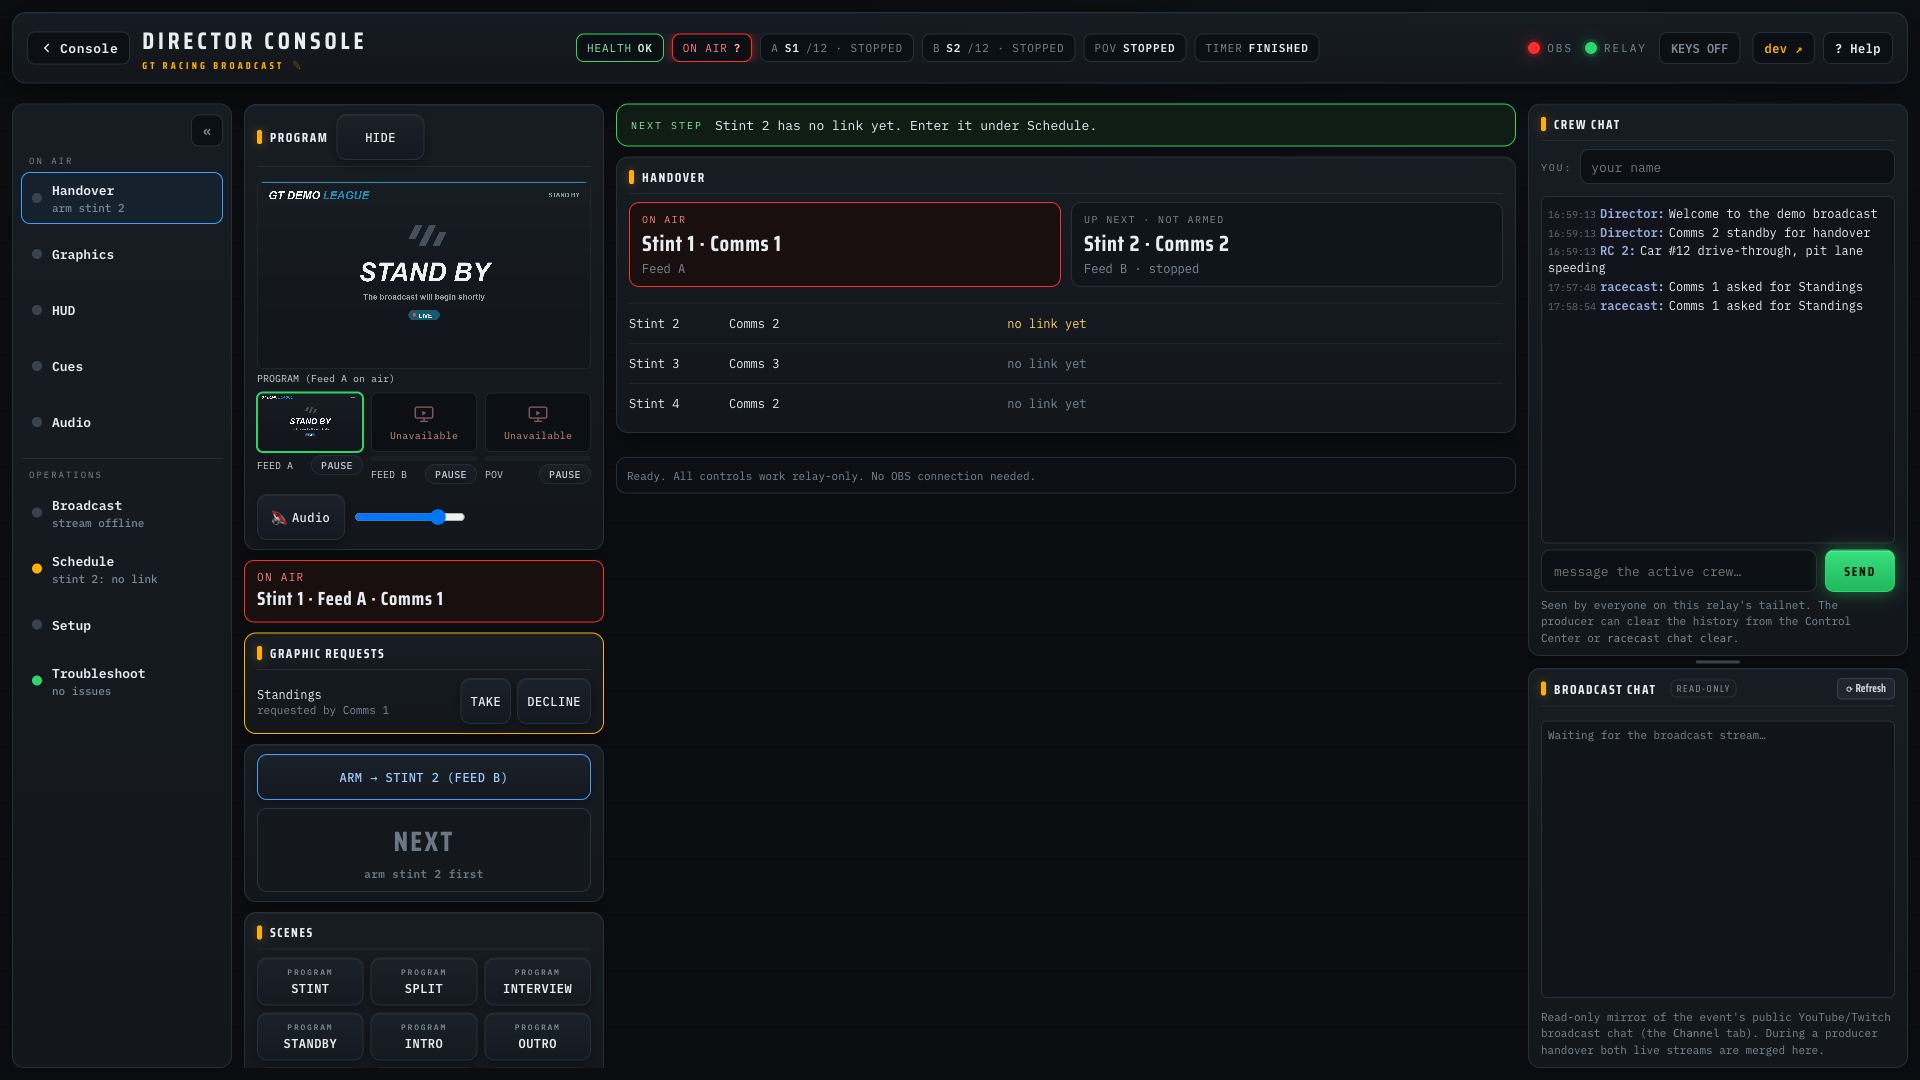
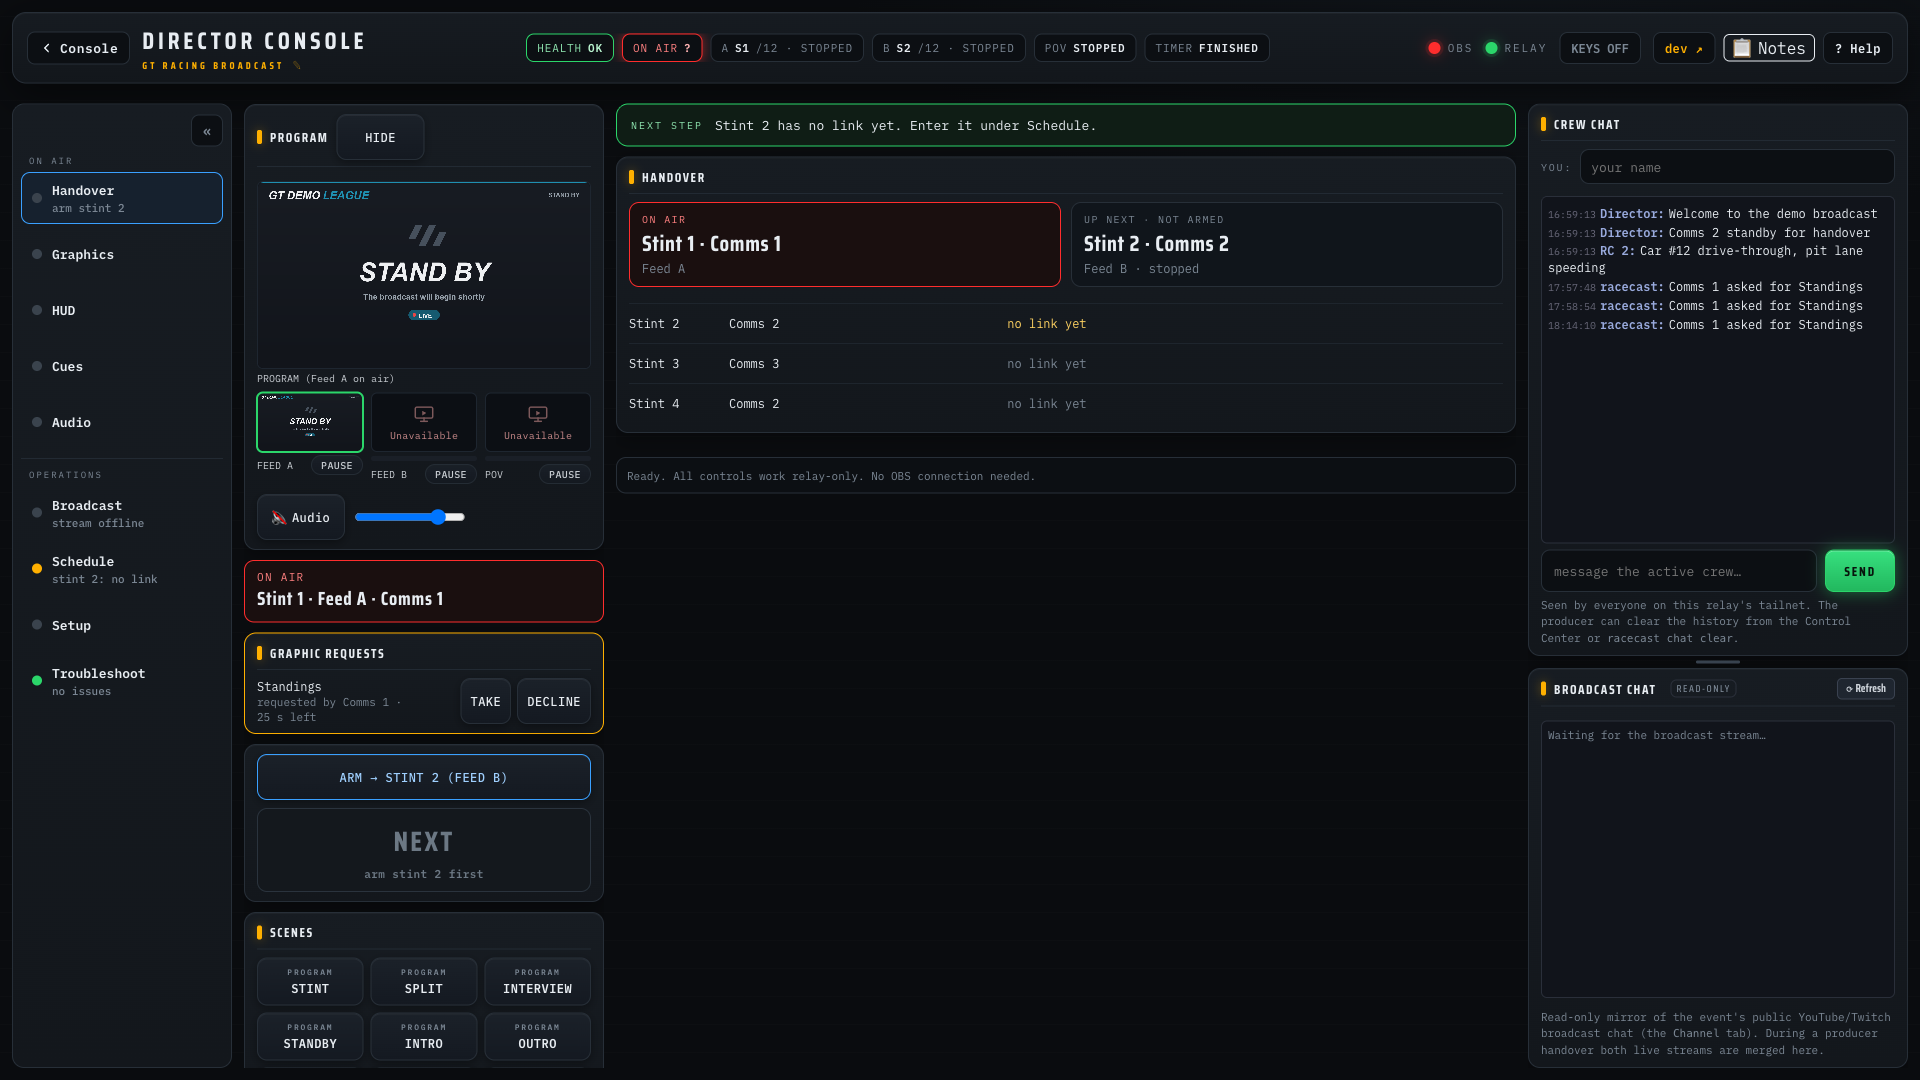
fix(graphics): director toggles end the crew's hide right; show time left on requests (#747)

diff --git a/src/director/director-panel.html b/src/director/director-panel.html
@@ -530,6 +530,7 @@
   #gfxReqList li{display:grid;grid-template-columns:minmax(0,1fr) auto auto;gap:6px;align-items:center}
   #gfxReqList .rq{font-size:12px;color:var(--ink);overflow-wrap:anywhere}
   #gfxReqList .rq small{display:block;font-size:11px;color:var(--muted)}
+  #gfxReqList .rq .left{white-space:nowrap}
   #gfxReqList button.k{min-width:0}
   .takemode{display:flex;align-items:center;gap:8px}
   .takemode>span{font-size:11px;color:var(--muted);min-width:92px}
@@ -1360,7 +1361,11 @@ function renderRequests(list){
     const li = document.createElement("li");
     const txt = document.createElement("div"); txt.className = "rq";
     txt.textContent = r.source;
-    const by = document.createElement("small"); by.textContent = "requested by " + r.by.join(", ");
+    const by = document.createElement("small");
+    by.textContent = `requested by ${r.by.join(", ")} · `;
+    const left = document.createElement("span"); left.className = "left";
+    left.textContent = `${r.left_s} s left`;
+    by.appendChild(left);
     txt.appendChild(by);
     const key = (label, action)=>{
       const b = document.createElement("button"); b.className = "k"; b.type = "button";

diff --git a/src/relay/racecast-feeds.py b/src/relay/racecast-feeds.py
@@ -11072,10 +11072,13 @@ def make_handler(relay, panel_path=None, hud_source=None, hud_path=None, assets_
                         _takes_read_state))
                 if p == ["obs", "graphics", "requests"]:
                     # The panel's request queue and modes, without an OBS read.
+                    now = time.time()
                     return self._send({
                         "modes": _take_modes.snapshot(), "league_mode": _take_modes.league,
-                        "requests": [{k: r[k] for k in ("id", "source", "by", "at")}
-                                     for r in _graphic_requests.pending(time.time())]})
+                        "requests": [{"id": r["id"], "source": r["source"], "by": r["by"],
+                                      "left_s": max(0, round(graphic_takes.REQUEST_TTL_S
+                                                             - (now - r["at"])))}
+                                     for r in _graphic_requests.pending(now)]})
                 if p[:2] == ["obs", "flag"]:
                     # Flag-status GRAPHIC toggle (parallel to the flag-text chip).
                     # GET so Companion's Generic-HTTP module hits it directly; the
@@ -11100,6 +11103,7 @@ def make_handler(relay, panel_path=None, hud_source=None, hud_path=None, assets_
                     payload, status = apply_stint_state(relay, relay._obs, p[2])
                     return self._send(payload, status)
                 if len(p) == 4 and p[:2] == ["obs", "graphic"]:
+                    _crew_takes.forget(unquote(p[3]))
                     payload, status = apply_graphic(relay, relay._obs, p[2], unquote(p[3]))
                     return self._send(payload, status)
                 if p[:1] == ["chat"]:
@@ -11730,6 +11734,7 @@ def make_handler(relay, panel_path=None, hud_source=None, hud_path=None, assets_
                 if p == ["obs", "source"]:
                     if _obs_ws is None:
                         return self._send({"error": "obs unavailable"}, 503)
+                    _crew_takes.forget(body.get("source"))
                     ok, note = relay._obs.set_scene_item_enabled(
                         body.get("scene"), body.get("source"), bool(body.get("on")))
                     return self._send({"ok": True} if ok

diff --git a/tests/test_console_gate.py b/tests/test_console_gate.py
@@ -1,7 +1,7 @@
 #!/usr/bin/env python3
 """Live-server integration checks for the /console auth gate (#216 phase 3a).
 Run: python3 tests/test_console_gate.py"""
-import importlib.util, os, tempfile, threading, json, time, types
+import importlib.util, os, tempfile, threading, json, types
 import urllib.request, urllib.error
 
 HERE = os.path.dirname(os.path.abspath(__file__))
@@ -1614,8 +1614,7 @@ def t_crew_hides_its_own_take_in_request_mode():
         rid = json.loads(_ask(p, "alice", "Standings")[1])["id"]
         _answer(p, rid, "take")
         m._obs_ws.visible.add("Standings")
-        time.sleep(2.1)   # one take per person per 2 s
-        return _take(p, "alice", "Standings", on=False)
+        return _take(p, "dave", "Standings", on=False)
     t = _take_call(fire, mode="request")
     assert t.res[0] == 200, t.res
     assert t.calls[-1] == ("item", "Stint", "Standings", False), t.calls
@@ -1650,6 +1649,26 @@ def t_mode_override_rejects_unknown_values():
                 _post(p, "/obs/graphics/mode", body={"role": "commentator", "mode": "x"}))
     t = _take_call(fire, mode="off")
     assert [r[0] for r in t.res] == [400, 400], t.res
+
+
+def t_a_director_toggle_ends_the_crews_hide_right():
+    def fire(p):
+        rid = json.loads(_ask(p, "alice", "Standings")[1])["id"]
+        _answer(p, rid, "take")
+        _post(p, "/obs/source", body={"scene": "Stint", "source": "Standings", "on": True})
+        m._obs_ws.visible.add("Standings")
+        return _take(p, "dave", "Standings", on=False)
+    t = _take_call(fire, mode="request")
+    assert t.res[0] == 403, t.res
+
+
+def t_request_queue_reports_the_time_left():
+    def fire(p):
+        _ask(p, "alice", "Standings")
+        return _queue(p)
+    t = _take_call(fire, mode="request")
+    left = t.res["requests"][0]["left_s"]
+    assert 55 <= left <= 60, left
 
 
 def t_request_routes_are_director_only_under_console():

diff --git a/src/scripts/graphic_takes.py b/src/scripts/graphic_takes.py
@@ -173,6 +173,13 @@ class CrewTakes:
         with self.lock:
             return self.current, dict(self.by)
 
+    def forget(self, source):
+        """The director toggled *source*: it is no longer a crew graphic."""
+        with self.lock:
+            if self.current == source:
+                self.current = None
+            self.by.pop(source, None)
+
 
 def chat_line(name, source, on):
     return f"{name} put {source} on air" if on else f"{name} took {source} off air"
@@ -256,11 +263,13 @@ class Requests:
             return self._copy(item) if item else None
 
     def resolve(self, rid, state, now):
-        """Mark a pending request taken or declined; None when it is not pending."""
+        """Mark a pending request taken or declined; None when it is not pending.
+        A take may also close a request that expired while OBS applied it."""
         with self.lock:
             self._prune(now)
             for item in self.items:
-                if item["id"] == rid and item["state"] == "pending":
+                if item["id"] == rid and (item["state"] == "pending" or
+                                          (state == "taken" and item["state"] == "expired")):
                     item.update(state=state, done_at=now)
                     return self._copy(item)
             return None

diff --git a/tests/test_graphic_takes.py b/tests/test_graphic_takes.py
@@ -327,6 +327,26 @@ def t_resolving_a_request_reports_back_to_every_requester():
     assert q.resolve(req["id"], "taken", now=104) is None, "a request resolves once"
 
 
+def t_a_take_that_outlives_the_deadline_still_counts():
+    q = gt.Requests()
+    req, _ = q.add("Standings", "alice", "Alice", now=100)
+    assert q.get(req["id"], now=159) is not None
+    q.pending(now=161)                     # another poll expires it during the take
+    assert q.resolve(req["id"], "taken", now=161) is not None
+    assert q.states_for("alice", now=162) == {"Standings": "taken"}
+    assert q.resolve(req["id"], "declined", now=162) is None
+
+
+def t_crew_takes_forget_a_graphic_the_director_toggles():
+    defs = gt.definitions(solo=False)
+    st = gt.CrewTakes()
+    st.apply(_entry(defs, "Standings"), True, "Comms 1", defs, {}, _ok)
+    st.forget("Schedule")
+    assert st.snapshot() == ("Standings", {"Standings": "Comms 1"})
+    st.forget("Standings")
+    assert st.snapshot() == (None, {}), "the director's toggle makes it the director's graphic"
+
+
 def t_dropping_requests_clears_the_queue():
     q = gt.Requests()
     q.add("Standings", "alice", "Alice", now=100)

diff --git a/src/relay/CLAUDE.md b/src/relay/CLAUDE.md
@@ -326,7 +326,7 @@ form in the two HTML files. Tests: `tests/test_submissions.py`.
 
 **Health Monitor.** The relay serves `/health-monitor` (tailnet/loopback) and `/console/health-monitor` (Funnel, any authenticated `/console` subject): a dashboard of relay health over time backed by a per-profile SQLite store at `runtime/<profile>/health-history.db`, sampled in the relay heartbeat; uPlot (MIT) is vendored at `src/assets/vendor/uplot/` (the first deliberately vendored JS in the repo, see the spec). CLI: `racecast health export|import|pull`.
 
-**Crew graphic takes (#743/#744/#747).** `GRAPHICS_TAKE` in `profile.env` (`off` default, `request`, `direct`; injected as `RACECAST_GRAPHICS_TAKE`) lets commentators and Race Control put broadcast stills on air. `src/scripts/graphic_takes.py` is the pure part: the takeable list derives from `obs_ws.GRAPHIC_SOURCES` minus Standby Cover (the panel's RED FLAG) and the grid rows, plus Post Race Interviews and the flags (Race Control only, applied through `flag_graphic_store`). `GET`/`POST /cockpit/graphic-takes` live under `/cockpit/` on purpose: every `/obs/*` route is director-only in `console_policy`, and `/cockpit/*` resolves the caller from the token at the tailnet root and under `/console` alike. The handler checks role and mode, refuses a take while none of the graphic's scenes is the program scene (409), keeps one crew editorial graphic (a new take hides only the previous crew take, never a director's), rate-limits one take per person per 2 s and posts a `racecast` line to the crew chat. `GET /obs/graphics` is the same list for the panel, plus the panel's graphic buses (`graphic_takes.panel_catalog`). The mode is per role: `TakeModes` holds the league value and the director's override from `POST /obs/graphics/mode`, in memory so a relay start resets it, and any change drops the open requests. In request mode `POST /cockpit/graphic-takes/request` queues a request in `Requests` (merged per graphic, 60 s, outcome readable by the requester for another 60 s); the panel polls `GET /obs/graphics/requests` (no OBS read) and answers with `POST /obs/graphics/request/<id>`, whose take runs the crew rules in the requesters' name and leaves the request open on a 409. Race Control flags stay direct, and the crew may hide the crew's own take without a request. Spec: `docs/superpowers/specs/2026-10-04-crew-pages-mobile-graphic-takes-design.md`. Tests: `tests/test_graphic_takes.py`, `tests/test_console_gate.py`.
+**Crew graphic takes (#743/#744/#747).** `GRAPHICS_TAKE` in `profile.env` (`off` default, `request`, `direct`; injected as `RACECAST_GRAPHICS_TAKE`) lets commentators and Race Control put broadcast stills on air. `src/scripts/graphic_takes.py` is the pure part: the takeable list derives from `obs_ws.GRAPHIC_SOURCES` minus Standby Cover (the panel's RED FLAG) and the grid rows, plus Post Race Interviews and the flags (Race Control only, applied through `flag_graphic_store`). `GET`/`POST /cockpit/graphic-takes` live under `/cockpit/` on purpose: every `/obs/*` route is director-only in `console_policy`, and `/cockpit/*` resolves the caller from the token at the tailnet root and under `/console` alike. The handler checks role and mode, refuses a take while none of the graphic's scenes is the program scene (409), keeps one crew editorial graphic (a new take hides only the previous crew take, never a director's), rate-limits one take per person per 2 s and posts a `racecast` line to the crew chat. `GET /obs/graphics` is the same list for the panel, plus the panel's graphic buses (`graphic_takes.panel_catalog`). The mode is per role: `TakeModes` holds the league value and the director's override from `POST /obs/graphics/mode`, in memory so a relay start resets it, and any change drops the open requests. In request mode `POST /cockpit/graphic-takes/request` queues a request in `Requests` (merged per graphic, 60 s, outcome readable by the requester for another 60 s); the panel polls `GET /obs/graphics/requests` (no OBS read) and answers with `POST /obs/graphics/request/<id>`, whose take runs the crew rules in the requesters' name and leaves the request open on a 409. Race Control flags stay direct, and the crew may hide the crew's own take without a request; a director toggle of that source (`/obs/source`, `/obs/graphic/...`) makes it the director's again (`CrewTakes.forget`). Spec: `docs/superpowers/specs/2026-10-04-crew-pages-mobile-graphic-takes-design.md`. Tests: `tests/test_graphic_takes.py`, `tests/test_console_gate.py`.
 
 **Relay-mediated OBS control (Director Panel).** The Director Panel's scene switches, visibility toggles, and audio controls go through the relay, not a direct browser→OBS-WebSocket connection. Six director-gated endpoints (all checked via `console_policy` before dispatch): `POST /obs/scene` (switch scene), `POST /obs/source` (show/hide a source), `POST /obs/audio` (set input volume/mute), `POST /obs/stream` (start/stop the OBS stream output), `POST /obs/state` (batch read of current scene + source visibility + audio levels), `POST /obs/refresh` (reload the relay-served OBS browser sources, the programmatic right-click → Refresh; best-effort; unconditional force). Beside those, `GET`/`POST /obs/split` sets the Splitscreen from the on-air feed (both feeds visible, on-air audio live, the rest muted; pure resolver `obs_ws.split_state_intents`) for the Companion `SPLIT` button and the panel macro, and `/obs/split-audio` is its audio-only predecessor, kept for older boards. `GET /obs/stint/<A|B|live>` / `POST /obs/stint` does the same for STINT (`live`, the on-air feed) or a hand-picked A/B (visibility, audio, the commentary mic of a local stint) without touching the relay's on-air state; the scene cut stays with the caller for both. `GET /obs/graphic/<show|hide|toggle>/<source>` (`apply_graphic`, #706) switches one of `obs_ws.GRAPHIC_SOURCES` in `obs_ws.graphic_scene(solo)`, Stint for endurance and Program for solo, so the shared Companion board's graphic buttons and `RED FLAG` work in both kinds; `toggle` reads the item first and answers 503 when OBS cannot report it. The relay calls `src/scripts/obs_ws.py` on the producer's machine, where the OBS-WebSocket password is auto-discovered from OBS's own config (overridable via `RACECAST_OBS_WS_PASSWORD` in `.env`); the password never crosses the network and OBS-WebSocket is **never** funnelled. The Director Panel therefore needs **no OBS IP, port, or password** from the director, the panel works fully over Funnel (`/console/panel`) using only the per-person token. The program monitor was already relay-mediated (`GET /preview/program`, any-auth, console-allowed) and is unchanged. All six OBS helpers follow the same best-effort contract as `get_program_screenshot`, they never raise. For the five control/read endpoints an unreachable OBS (`obs_ws._connect()` returning `None`) maps to a `503` with a descriptive note; `POST /obs/refresh` is best-effort fire-and-forget and instead returns `count: 0` with the note (a `503` only when obs-websocket support is absent entirely). Tests: `tests/test_obsws.py`.
 

diff --git a/src/docs/wiki/Director.md b/src/docs/wiki/Director.md
@@ -88,7 +88,7 @@ page refresh.
 
 In `REQUEST` mode commentators and Race Control ask for a graphic instead of putting it on
 air themselves. Each request shows in the live column as "Standings, requested by
-Comms 1" with **TAKE** and **DECLINE**. Two people asking for the same graphic share one
+Comms 1", with the seconds left and **TAKE** and **DECLINE**. Two people asking for the same graphic share one
 entry. A request expires after 60 s.
 
 **TAKE** follows the crew rules: the graphic replaces the previous crew graphic and goes
